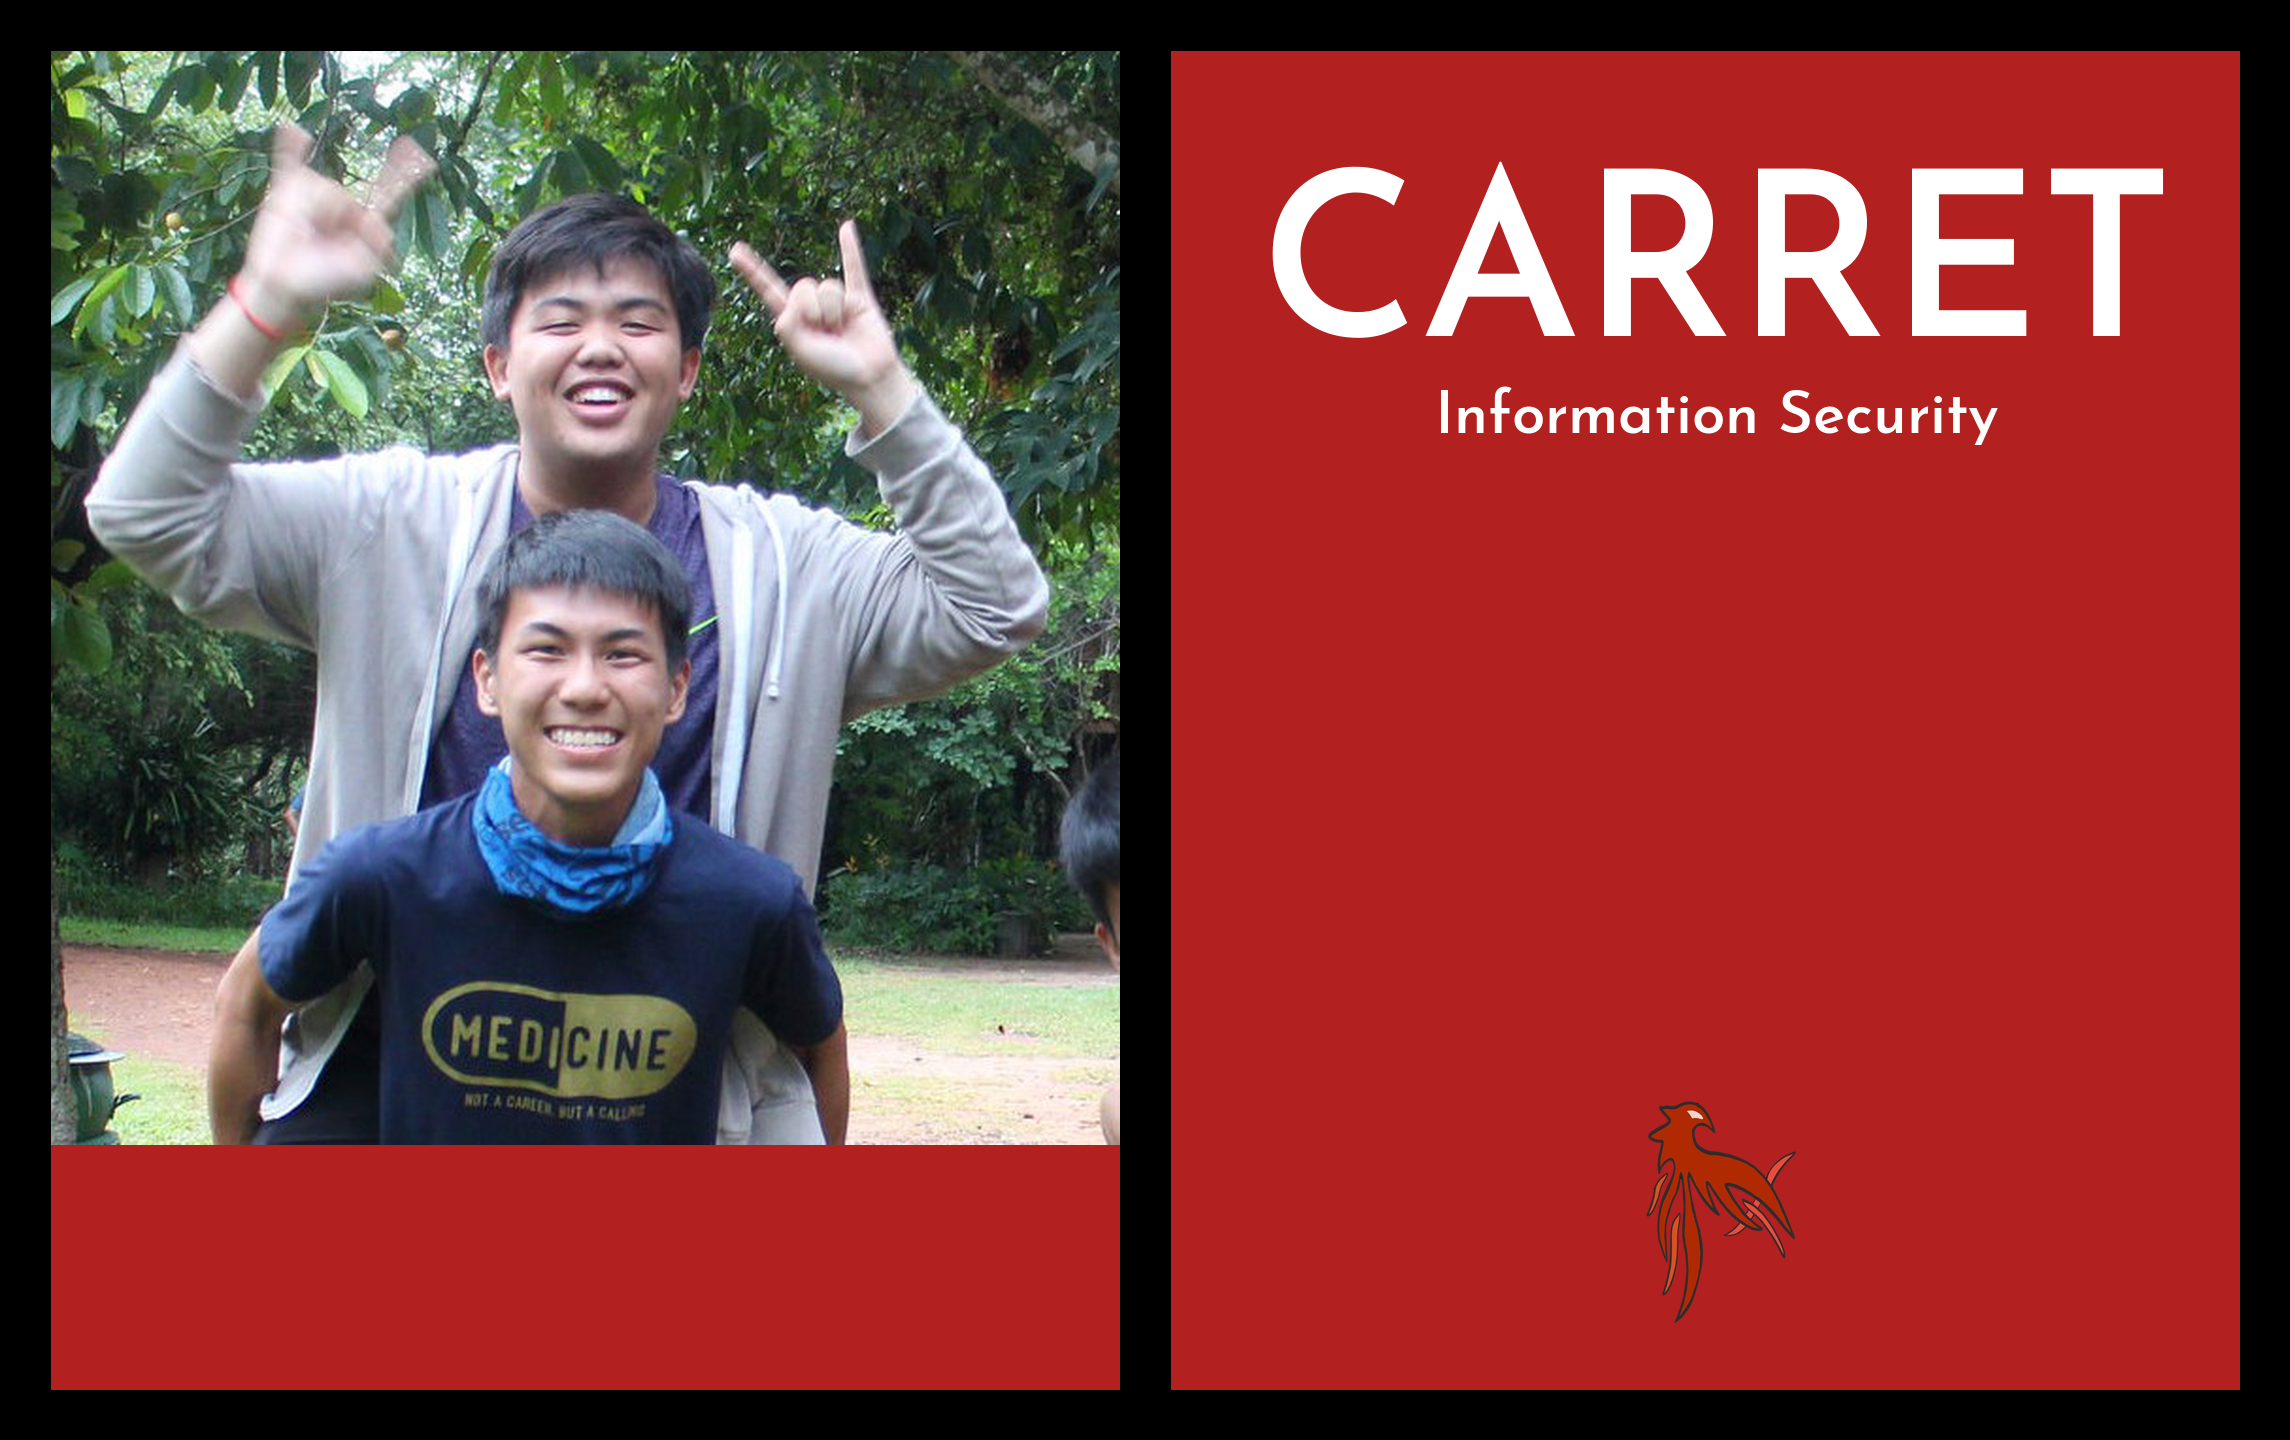
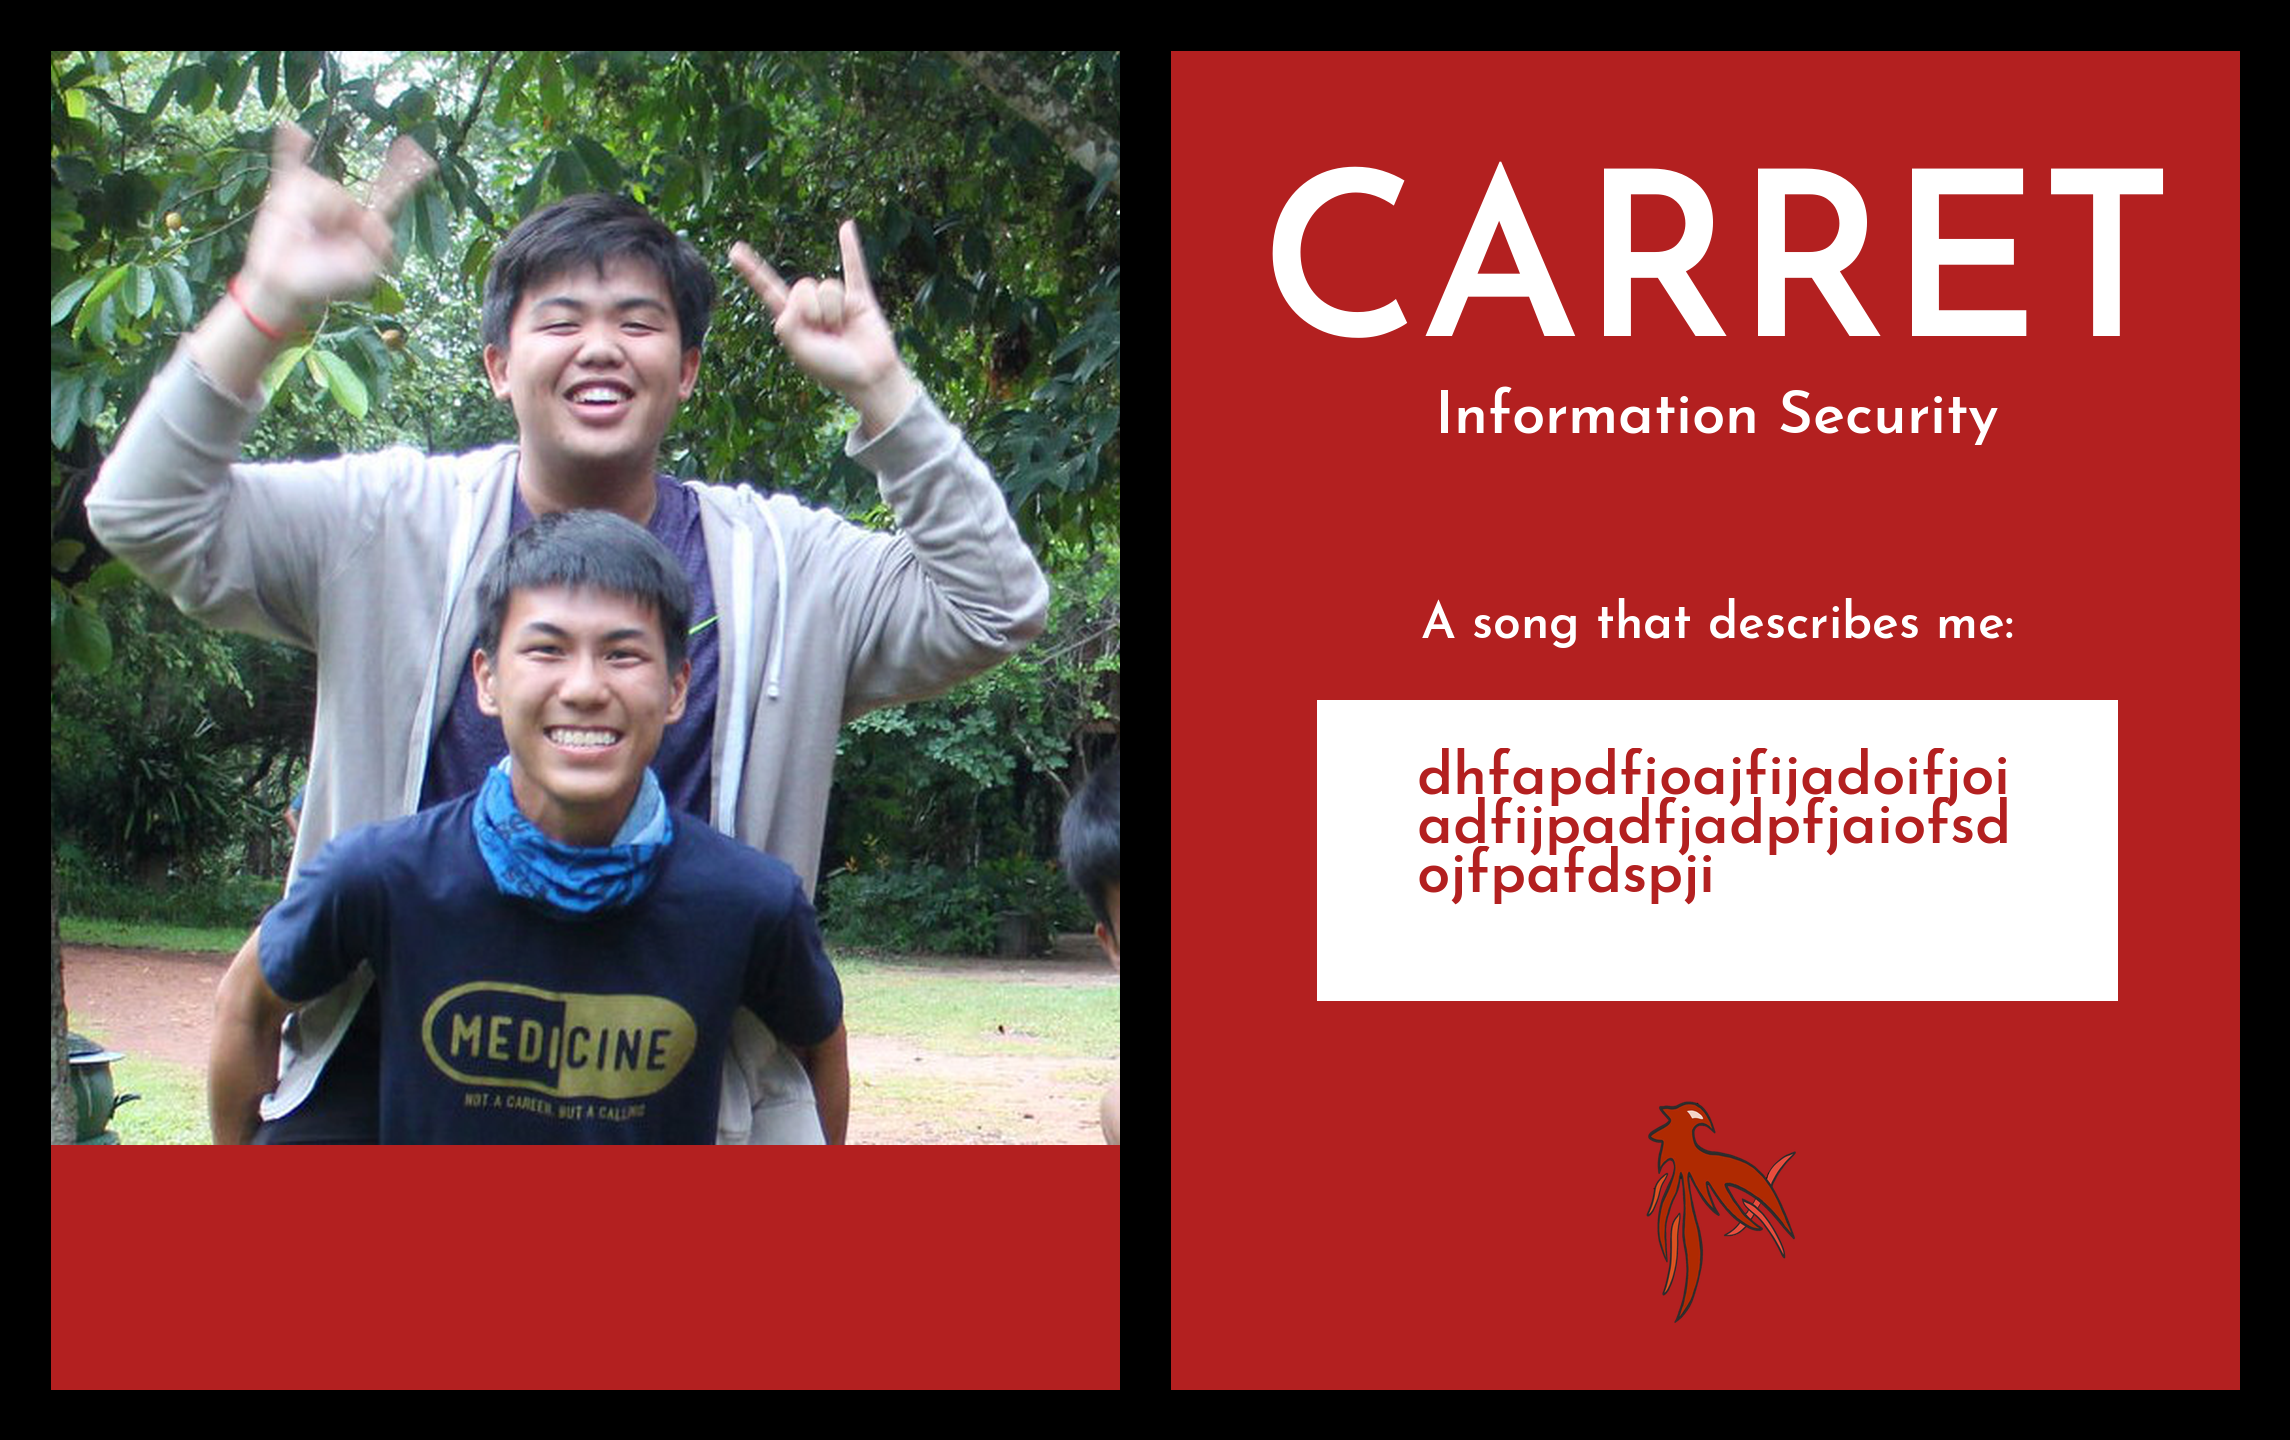
add margins

Changed region(s): [[0.5581, 0.4062, 0.9301, 0.7188]]

diff --git a/doorcard_generator_2019_2.py b/doorcard_generator_2019_2.py
@@ -84,19 +84,50 @@ def generate_doorcard(src, bg_path, font_path):
     emblem = emblem.resize((emblem_w,emblem_w), Image.ANTIALIAS)
     bg.paste(emblem, (math.floor(2290/4*3-emblem_w/2), 1100), emblem)
 
-    # song_text = "A song that describes me:"
-    # song_font = ImageFont.truetype(font_path, 50)
-    # song_w = centre - math.floor(song_font.getsize(song_text)[0] / 2)
-    # song_h = 600
+    SONG_HDR = "A song that describes me:"
+    SONG_HDR_FONT = ImageFont.truetype(font_path, 50)
+    SONG_HDR_X = centre - math.floor(SONG_HDR_FONT.getsize(SONG_HDR)[0] / 2)
+    SONG_HDR_Y = 600
 
-    # song2_text = "You're Beautiful \n\nby James Blunt"
-    # song2_font = ImageFont.truetype(font_path, 80)
-    # song2_w = centre - math.floor(song2_font.getsize(song2_text)[0] / 4)
-    # song2_h = 750
+    WHITE = (255,255,255)
 
-    # d.text((song_w, song_h), song_text, (255,255,255), font=song_font)
-    # d.rectangle([(centre - 400, 700), (centre + 400, 1000)], (255,255,255), (255,255,255), 0)
-    # d.text((song2_w, song2_h), song2_text, (179, 32, 32), font=song2_font)
+    song_text = "dhfapdfioajfijadoifjoiadfijpadfjadpfjaiofsdojfpafdspji"
+    song_font = ImageFont.truetype(font_path, 60)
+    song_x = centre - math.floor(song_font.getsize(song_text)[0] / 2)
+    song_y = 750
+
+    box_coords_x = centre - 400
+    box_coords_y = 700
+    box_width = 800
+    box_height = 300
+    box_margin = 100
+    box_text_length = box_width - box_margin * 2
+
+    def wrap_text(text, width):
+        lines = []
+        line_text = ""
+        fontsize = 60
+        font = ImageFont.truetype(font_path, fontsize)
+        for char in text:
+            print(line_text)
+            print(font.getsize(line_text + char)[0], " ", width)
+            if font.getsize(line_text + char)[0] > width: #correct later
+                line_text += '\n'
+                lines.append(line_text)
+                line_text = char
+                
+            else:
+                line_text += char
+        lines.append(line_text)
+        return ''.join(lines)
+    
+
+    # 1 insert newlines when length of text exceeds text_len
+    # 2 displace by margin length
+
+    d.text((SONG_HDR_X, SONG_HDR_Y), SONG_HDR, WHITE, font=SONG_HDR_FONT)
+    d.rectangle([(box_coords_x, box_coords_y), (box_coords_x + box_width, box_coords_y + box_height)], WHITE, WHITE, 0)
+    d.text((box_coords_x + box_margin, box_coords_y + 50), wrap_text(song_text, box_text_length), (179, 32, 32), font=song_font)
     
 
     # save
